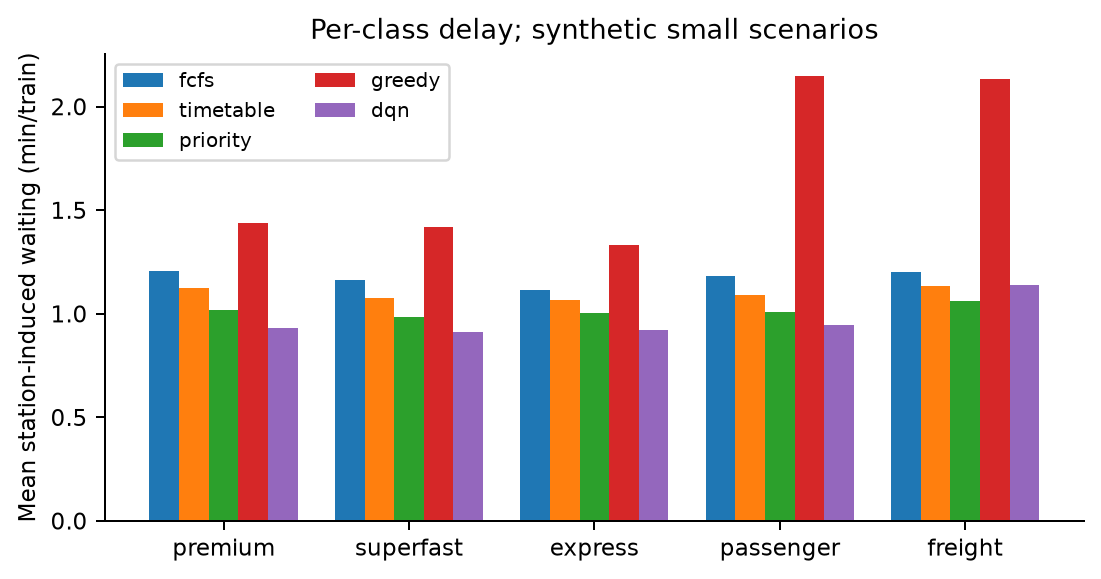
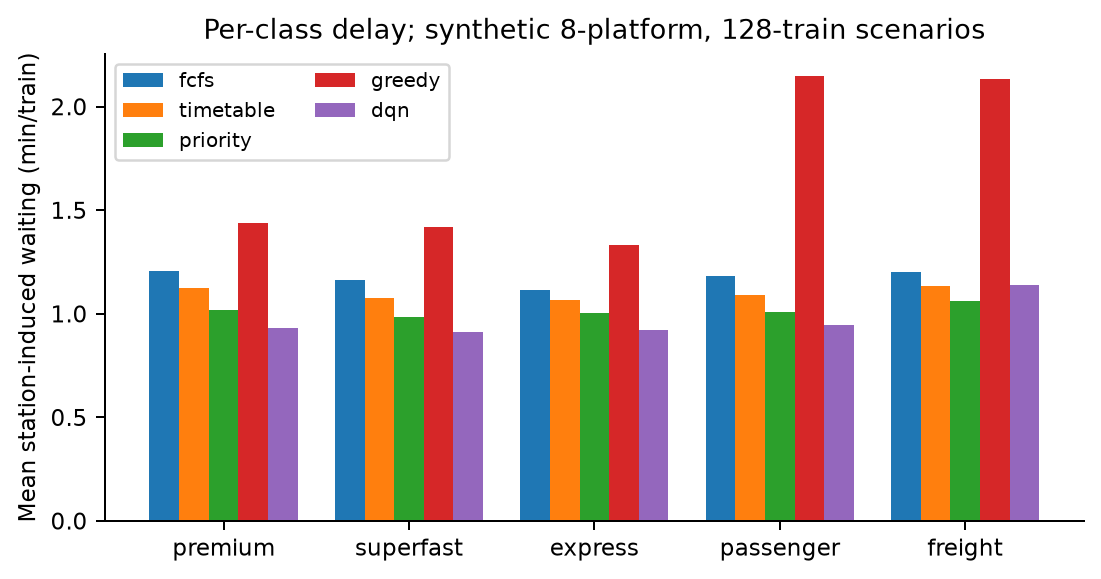
Derive per-class figure title from the run config

Changed region(s): [[0.1853, 0.0311, 0.8955, 0.0933]]

diff --git a/railway_rl/evaluation/plots.py b/railway_rl/evaluation/plots.py
@@ -30,7 +30,9 @@ def generate_plots(results: str | Path, training: str | Path | None = None) -> l
         fig.tight_layout()
         for extension in ("png", "pdf"):
             path = output / f"{name}.{extension}"
-            fig.savefig(path, bbox_inches="tight")
+            # Omit the PDF creation timestamp so figures depend only on the data.
+            metadata = {"CreationDate": None} if extension == "pdf" else None
+            fig.savefig(path, bbox_inches="tight", metadata=metadata)
             written.append(str(path))
         plt.close(fig)
     policies = manifest["policies"]
@@ -51,7 +53,8 @@ def generate_plots(results: str | Path, training: str | Path | None = None) -> l
         ax.bar(np.arange(len(classes)) + index * width, [grouped.get((c, policy), np.nan) for c in classes], width, label=policy)
     ax.set_xticks(np.arange(len(classes)) + width * (len(policies) - 1) / 2, classes)
     ax.set_ylabel("Mean station-induced waiting (min/train)")
-    ax.set_title("Per-class delay; synthetic small scenarios")
+    station, scenario = manifest["config"]["station"], manifest["config"]["scenario"]
+    ax.set_title(f"Per-class delay; synthetic {station['platform_count']}-platform, {scenario['trains']}-train scenarios")
     ax.legend(ncol=2, fontsize=8)
     save(fig, "class_delays")
     comparison = ["fcfs", "dqn"] if "dqn" in policies else ["fcfs", "timetable"]
